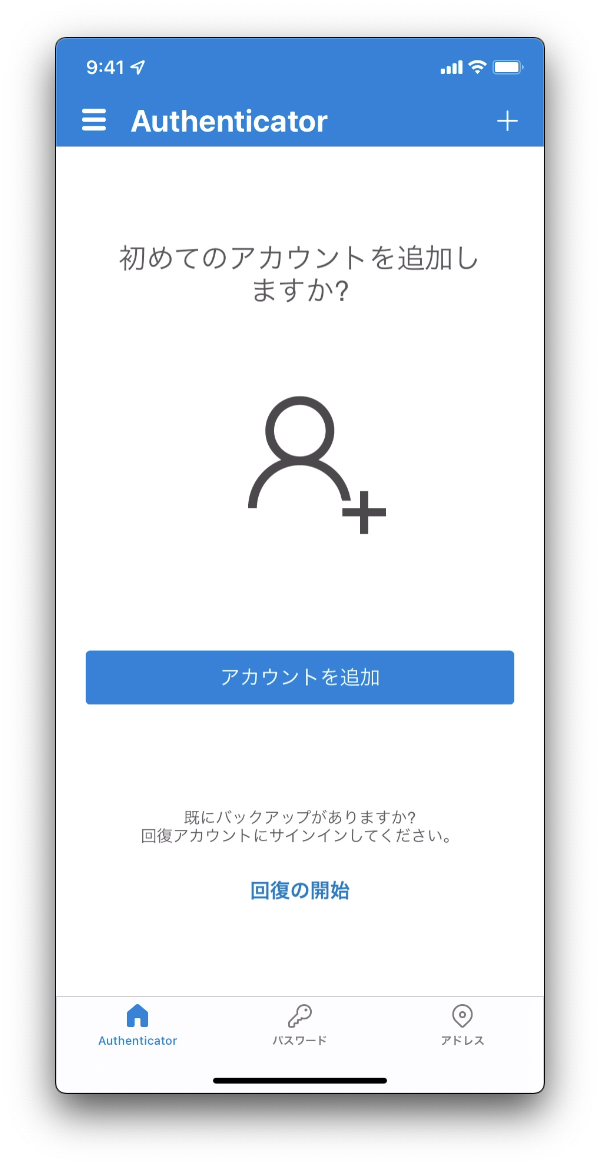
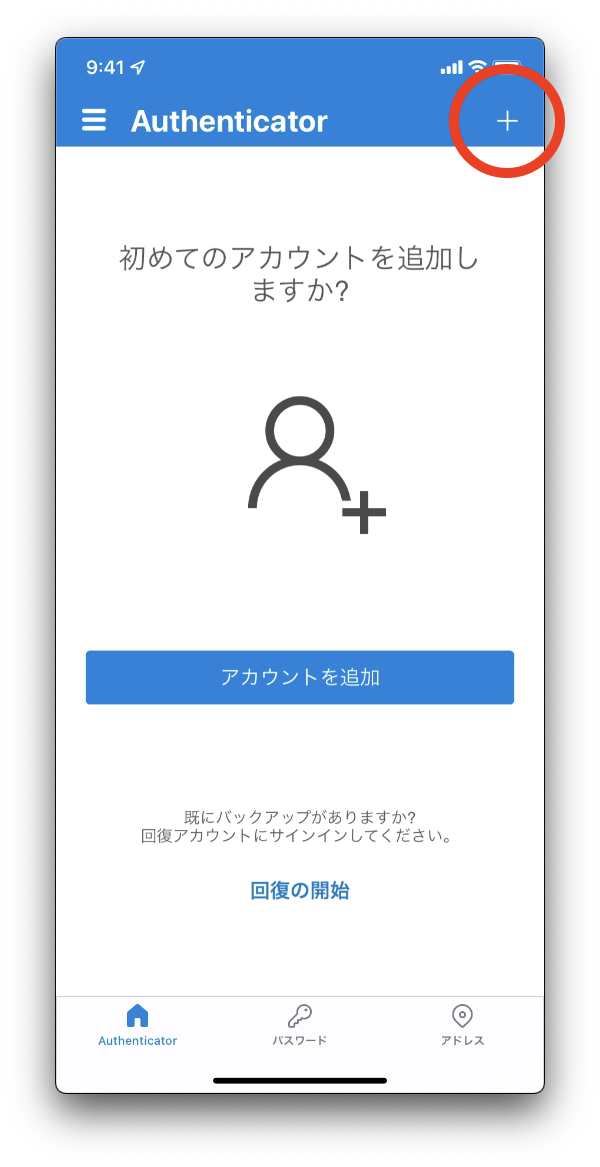
minor fix

Changed region(s): [[0.75, 0.0308, 0.96, 0.1542]]

diff --git a/utokyo_account/mfa/index.md b/utokyo_account/mfa/index.md
@@ -73,7 +73,7 @@ UTokyo Accountで多要素認証を利用するには，はじめに多要素認
 <li><strong>スマホ以外（パソコンなど）でこの作業をしている場合</strong>
 <ol>
 <li>画面の指示に従ってQRコードを表示してください．<img src="first_ms_auth_qr.png"></li>
-<li>スマホでMicrosoft Authenticatorアプリを開き，「アカウントを追加」「職場または学校アカウント」「QRコードをスキャン」の順に選択してください．<img src="ms_auth_screen.png"></li>
+<li>スマホでMicrosoft Authenticatorアプリを開き，画面右上の「+」をタップしてから，「職場または学校アカウント」「QRコードをスキャン」の順に選択してください．<img src="ms_auth_screen.png"></li>
 <li>QRコードを読み取ってください．</li>
 <li>アプリ上に自分のUTokyo Accountが表示されればOKです．<img src="ms_auth_list.png"></li>
 </ol>

diff --git a/en/utokyo_account/mfa/index.md b/en/utokyo_account/mfa/index.md
@@ -100,7 +100,7 @@ Here you will add the first verification method (the second and subsequent metho
                             click "Next" to go to the QR code page.  
                             <img src="first_ms_auth_qr.png"></li>
                         <li>Open the Microsoft Authenticator app on your smartphone, 
-                            select "Add account" from the icon in the upper-right, 
+                            select "+" from the icon in the upper-right, 
                             then "Work or school account", and "Scan QR code".
                             <img src="ms_auth_screen.png"></li>
                         <li>Scan the QR code with your device's camera.</li>
